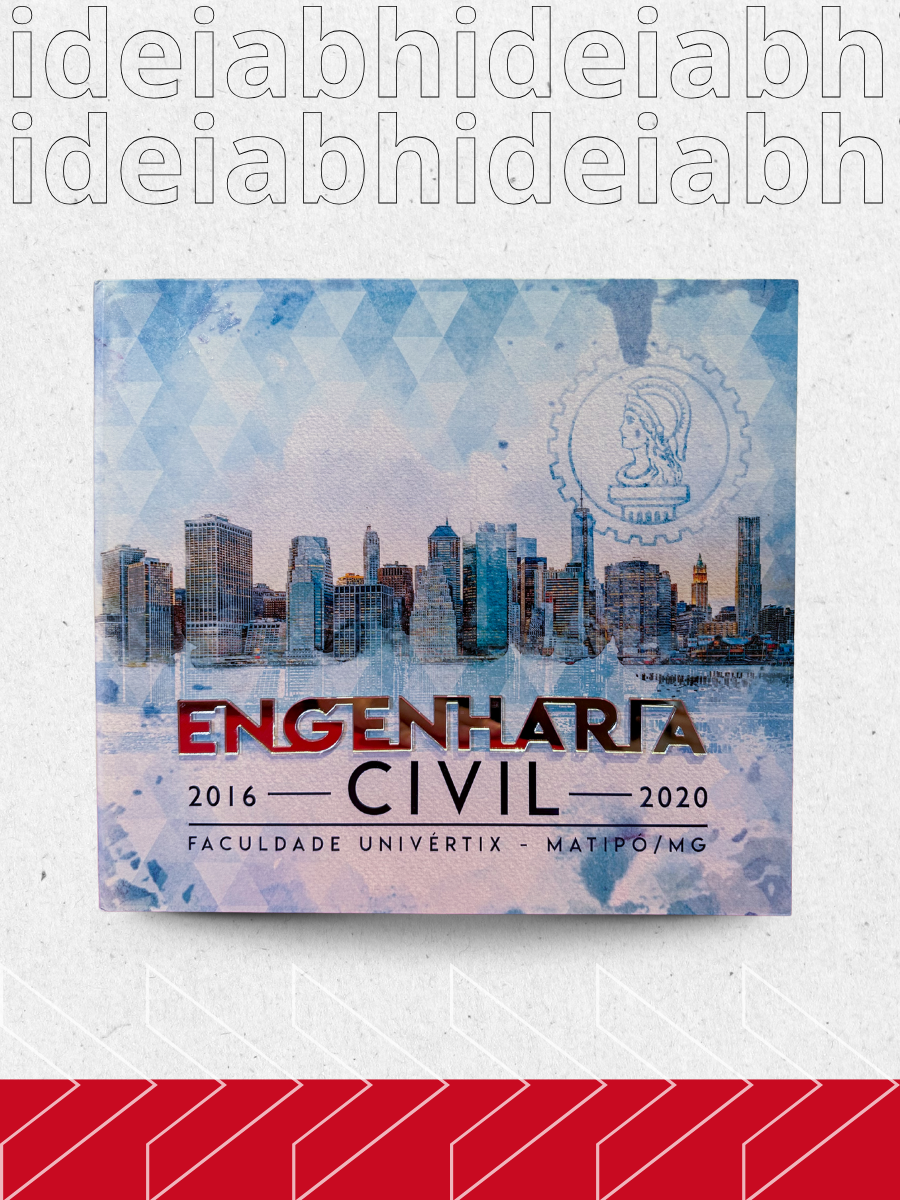
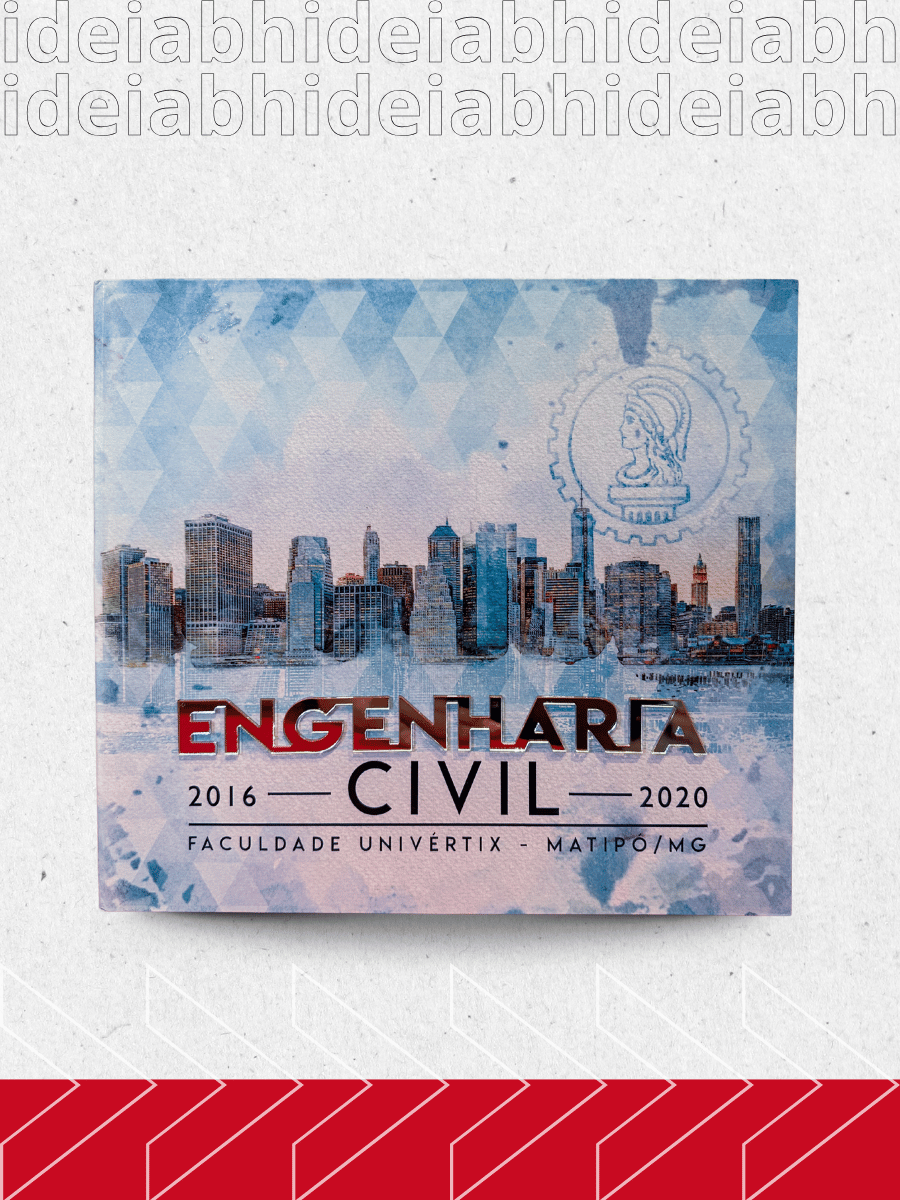
fix: imagens compactadas

Changed region(s): [[0.0, 0.0, 0.9956, 0.185]]

diff --git a/script.js b/script.js
@@ -1,4 +1,4 @@
-// Smooth scrolling for navigation links (versão corrigida)
+// Smooth scrolling for navigation links 
 document.querySelectorAll('.nav a[href^="#"]').forEach(anchor => {
     anchor.addEventListener('click', function (e) {
         e.preventDefault();
@@ -12,7 +12,7 @@ document.querySelectorAll('.nav a[href^="#"]').forEach(anchor => {
     });
 });
 
-// Carrossel de Portfólio (NOVA VERSÃO COM LÓGICA DE PÁGINAS)
+// Carrossel de Portfólio 
 document.addEventListener('DOMContentLoaded', function() {
     const portfolioData = [
         { id: 1, image: "images/1.png", title: "Convite Clássico Premium" },
@@ -38,16 +38,19 @@ class PortfolioCarousel {
         this.currentItemIndex = 0;
         this.isTransitioning = false;
 
+        // --- NOVO: Variáveis para controlar o swipe ---
+        this.touchStartX = 0;
+        this.touchMoveX = 0;
+        this.isDragging = false;
+        this.dragThreshold = 50; // Mínimo de pixels para considerar um swipe
+
         this.init();
         window.addEventListener('resize', this.debounce(() => this.rebuild(), 250));
     }
 
     init() {
         this.itemsPerPage = this.getItemsPerPage();
-        
-        
         this.data = [...this.originalData, ...this.originalData, ...this.originalData];
-        
         this.currentItemIndex = this.originalDataLength;
 
         this.render();
@@ -121,16 +124,70 @@ class PortfolioCarousel {
 
         this.container.addEventListener('mouseenter', () => this.stopAutoPlay());
         this.container.addEventListener('mouseleave', () => this.startAutoPlay());
+        
+        // --- NOVO: Adiciona os eventos de toque ---
+        this.addTouchSupport();
     }
+
+    // --- NOVO: Método inteiro para o swipe ---
+    addTouchSupport() {
+        // Só adiciona a função de swipe se for mobile (1 item por página)
+        if (this.itemsPerPage > 1) return;
+
+        this.carousel.addEventListener('touchstart', (e) => this.handleTouchStart(e));
+        this.carousel.addEventListener('touchmove', (e) => this.handleTouchMove(e));
+        this.carousel.addEventListener('touchend', () => this.handleTouchEnd());
+    }
+
+    handleTouchStart(e) {
+        this.isDragging = true;
+        this.touchStartX = e.touches[0].clientX;
+        this.carousel.style.transition = 'none'; // Remove a transição para o arraste ser suave
+        this.stopAutoPlay();
+    }
+
+    handleTouchMove(e) {
+        if (!this.isDragging) return;
+        
+        this.touchMoveX = e.touches[0].clientX;
+        const dragDistance = this.touchMoveX - this.touchStartX;
+        
+        // Calcula a posição atual e move o carrossel junto com o dedo
+        const currentTranslate = - (this.currentItemIndex * this.viewport.offsetWidth);
+        this.carousel.style.transform = `translateX(${currentTranslate + dragDistance}px)`;
+    }
+
+    handleTouchEnd() {
+        if (!this.isDragging) return;
+
+        const dragDistance = this.touchMoveX - this.touchStartX;
+        this.isDragging = false;
+        
+        // Se o arraste foi maior que o limite (threshold)
+        if (Math.abs(dragDistance) > this.dragThreshold) {
+            if (dragDistance < 0) {
+                // Arrastou para a esquerda -> próximo slide
+                this.moveSlide('next');
+            } else {
+                // Arrastou para a direita -> slide anterior
+                this.moveSlide('prev');
+            }
+        } else {
+            // Se o arraste foi muito curto, volta para a posição original
+            this.updatePosition(true);
+        }
+
+        // Reinicia o autoplay somente quando o usuário solta o dedo
+        this.startAutoPlay();
+    }
+    // --- FIM DOS MÉTODOS DE SWIPE ---
 
     handleTransitionEnd() {
         this.isTransitioning = false;
-        // Se chegamos no bloco de clones do fim, pulamos para o item correspondente no bloco do meio.
         if (this.currentItemIndex >= this.originalDataLength * 2) {
             this.currentItemIndex -= this.originalDataLength;
             this.updatePosition(false);
         }
-        // Se chegamos no bloco de clones do início, pulamos para o item correspondente no bloco do meio.
         if (this.currentItemIndex < this.originalDataLength) {
             this.currentItemIndex += this.originalDataLength;
             this.updatePosition(false);
@@ -155,7 +212,7 @@ class PortfolioCarousel {
         if (this.isTransitioning) return;
         this.isTransitioning = true;
         this.currentItemIndex += direction === 'next' ? 1 : -1;
-        this.updatePosition();
+        this.updatePosition(); // A transição será reativada aqui
         this.resetAutoPlay();
     }
 
@@ -178,7 +235,7 @@ class PortfolioCarousel {
 
     startAutoPlay() {
         this.stopAutoPlay();
-        this.autoPlayInterval = setInterval(() => this.autoAdvance(), 2500);
+        this.autoPlayInterval = setInterval(() => this.autoAdvance(), 4000); // Aumentei um pouco o tempo
     }
 
     stopAutoPlay() {

diff --git a/index.html b/index.html
@@ -321,14 +321,13 @@
                             <input type="tel" required placeholder="(31) 99999-9999" class="form-input" id="form-whatsapp">
                         </div>
                         <div class="form-group">
-                            <label class="form-label">Quantidade estimada</label>
+                            <label class="form-label">Quantidade de formandos</label>
                             <select class="form-input" id="form-quantidade">
-                                <option value="N/A">Selecione a quantidade</option>
-                                <option value="50-100">50 a 100 convites</option>
-                                <option value="100-200">100 a 200 convites</option>
-                                <option value="200-300">200 a 300 convites</option>
-                                <option value="300-500">300 a 500 convites</option>
-                                <option value="500+">Mais de 500 convites</option>
+                                <option value="N/A">Selecione a quantidade de formandos</option>
+                                <option value="50-100">Turma com 10 formandos (mínimo)</option>
+                                <option value="100-200">Turma com 10 a 20 formandos</option>
+                                <option value="200-300">Turma com 20 a 30 formandos</option>
+                                <option value="300-500">Turma com 30+ formandos</option>
                             </select>
                         </div>
                     </div>
@@ -346,7 +345,12 @@
 
                     <div class="form-group" style="margin-bottom: 1.5rem;">
                         <label class="form-label">Data prevista da formatura</label>
-                        <input type="date" class="form-input" id="form-data">
+                        <select name="form-input" id="form-data" class="form-input">
+                            <option value="N/A">Selecione a data prevista da formatura</option>
+                            <option value="2025-12-15">2026 - Primeiro semestre</option>
+                            <option value="2025-12-16">2026 - Segundo semestre</option>
+                            <option value="2025-12-17">Após 2027</option>
+                        </select>
                     </div>
 
                     <div class="form-group" style="margin-bottom: 1.5rem;">

diff --git a/style.css b/style.css
@@ -87,7 +87,7 @@ body {
 /* Hero */
 .hero {
     position: relative;
-    min-height: 100vh;
+    min-height: 100dvh;
     background: linear-gradient(135deg, var(--bg-white) 0%, var(--bg-gray-50) 50%, var(--bg-gray-100) 100%);
     display: flex;
     align-items: center;
@@ -174,6 +174,12 @@ body {
 
 .hero-images {
     position: relative;
+}
+
+@media (max-width: 768px) {
+    .hero-img {
+        height: 350px; 
+    }
 }
 
 .hero-image-bg {
